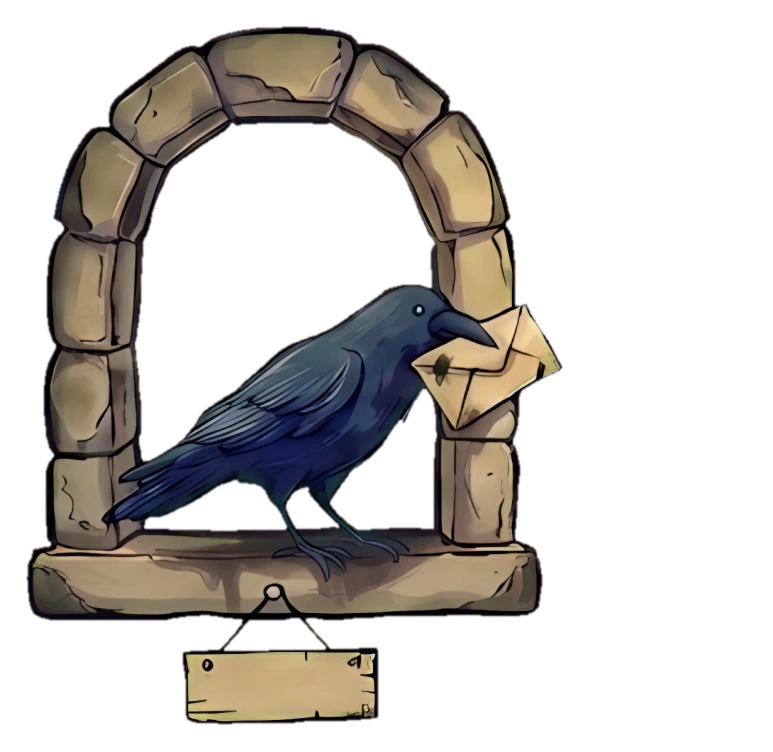
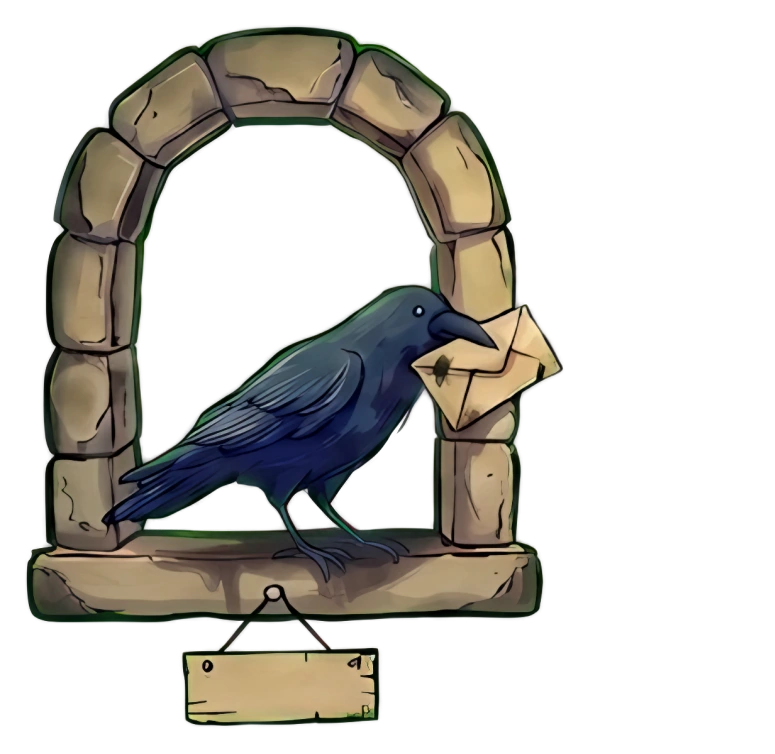
v28: matted object cut-outs, hover outline from hover pose, About moved up, sign text centring, hard swap
Claude-Session: https://claude.ai/code/session_01DVG5f7VBQkdwappbx1RNPL

diff --git a/concepts/scenes/workshop.js b/concepts/scenes/workshop.js
@@ -19,10 +19,11 @@ PF.init({
   },
   draw:function(svg,P){
     var el=P.el,K=900/572,OX=(1600-1024*K)/2,T='translate('+OX+',0) scale('+K+')';
-    var CUT={raven:{x:48.50,y:17.89,w:307.28,h:298.93},construct:{x:743.35,y:45.32,w:280.65,h:276.67},books:{x:43.73,y:237.32,w:243.28,h:334.31},about:{x:331.53,y:302.91,w:380.82,h:268.72},disc:{x:675.78,y:276.67,w:285.81,h:294.96}};
-    var HOV={raven:{x:48.50,y:17.89,w:307.28,h:298.93},books:{x:43.73,y:237.32,w:243.28,h:334.31},construct:{x:743.35,y:45.32,w:280.65,h:276.67},about:{x:331.53,y:302.91,w:380.82,h:268.72},disc:{x:675.78,y:276.67,w:285.81,h:294.96}};
-    var RING={"raven":"M143.90 308.88 129.99 309.14 125.61 308.54 122.83 307.51 120.84 306.15 119.55 304.50 119.04 302.91 118.86 290.35 117.73 281.44 117.77 277.47 118.25 275.88 119.65 274.41 121.64 273.64 133.99 272.30 135.55 271.18 137.14 269.12 137.36 267.93 136.75 267.09 133.17 266.15 129.19 265.91 111.70 267.86 68.77 267.81 64.80 267.09 61.61 265.77 58.68 263.16 57.37 261.17 56.25 256.00 55.74 248.45 56.27 240.89 58.45 234.93 60.02 233.45 62.81 231.98 63.58 230.16 63.27 205.12 64.66 198.76 63.36 192.00 62.52 183.25 62.47 171.33 63.43 163.78 66.18 155.83 64.52 149.86 63.68 143.90 63.65 128.00 64.15 122.04 65.40 116.07 68.11 109.71 66.47 104.15 67.39 97.79 69.37 89.84 72.50 81.09 76.07 74.34 79.76 69.17 82.68 66.44 87.67 64.00 89.58 57.64 93.42 53.17 114.09 37.16 117.66 34.72 120.45 33.54 127.20 32.26 134.36 28.90 144.70 26.38 151.06 25.52 162.19 25.09 175.70 25.59 184.84 27.18 189.22 28.88 192.80 31.42 200.35 32.52 206.31 35.11 213.86 40.51 226.98 51.20 229.71 54.46 231.46 58.04 235.33 60.42 238.60 63.60 243.56 71.55 246.53 77.52 248.64 82.68 252.63 95.40 254.24 102.16 254.23 107.73 255.45 112.10 256.41 125.61 257.19 127.33 259.58 127.53 268.72 124.69 270.71 125.12 273.09 126.61 274.68 126.76 284.25 124.02 293.50 120.45 309.27 111.03 315.23 108.20 317.22 108.47 318.59 109.71 319.03 111.70 318.01 115.68 318.81 116.62 320.00 116.59 324.47 114.48 335.11 108.22 338.29 107.27 339.88 107.66 341.25 108.92 341.71 110.51 341.33 112.89 338.66 117.66 333.43 123.63 332.96 125.22 333.52 125.82 334.71 125.92 342.66 123.27 345.04 123.04 347.73 124.42 348.44 126.81 346.72 130.39 339.59 137.54 327.16 145.46 327.21 146.29 328.35 146.96 335.90 148.18 337.27 149.47 337.58 151.45 336.45 153.44 333.91 155.61 323.58 160.52 323.31 161.39 324.13 164.57 322.78 166.99 319.20 169.06 314.83 170.78 308.87 171.07 306.56 174.51 304.89 175.94 301.71 177.51 296.15 179.25 294.78 182.46 292.97 184.24 290.58 185.10 283.03 186.38 279.85 190.59 272.70 192.21 271.30 195.58 269.91 196.95 266.34 198.13 262.76 198.15 261.89 198.76 258.43 205.12 256.81 228.17 257.59 230.21 261.96 232.62 263.97 234.53 266.19 240.50 267.05 246.06 267.02 253.61 265.96 259.98 264.04 262.76 260.77 264.90 256.80 265.86 205.52 266.31 180.47 268.14 179.64 268.72 179.53 269.91 180.47 271.17 182.06 272.05 197.57 272.02 199.95 272.83 201.29 274.29 201.89 277.07 201.89 301.71 201.68 303.70 200.76 305.29 197.96 306.71 188.42 307.60 143.90 308.88Z","books":"M189.61 567.66 160.60 568.00 152.25 567.23 131.18 567.17 127.60 566.24 125.06 563.68 124.17 558.91 123.67 551.75 123.84 529.89 124.82 527.91 126.41 526.74 128.80 526.07 136.75 525.40 137.86 524.72 137.57 523.53 110.92 513.59 92.62 508.14 65.19 497.92 53.66 493.33 51.68 491.84 50.48 490.14 49.37 485.76 49.93 480.99 52.47 478.41 57.64 476.18 58.62 474.24 57.49 466.68 56.05 461.85 55.25 460.50 51.71 457.14 50.15 453.96 49.76 451.18 50.34 448.00 51.55 446.01 54.76 442.83 61.44 438.46 61.04 428.92 62.55 422.56 65.87 414.21 69.57 410.61 76.32 408.12 77.43 407.06 76.36 398.31 77.49 391.55 78.74 389.17 81.09 386.70 90.10 381.22 90.73 370.88 93.57 362.14 97.49 354.98 96.99 353.82 96.20 353.59 91.43 354.85 87.45 354.27 81.89 351.22 77.12 349.99 75.18 348.22 73.73 345.04 72.50 338.68 71.24 326.76 71.47 320.40 73.54 317.85 77.52 317.07 80.70 318.15 85.47 321.24 89.84 322.24 92.22 323.83 93.61 325.57 94.67 328.35 96.19 343.85 96.60 344.99 97.39 345.44 98.49 344.25 99.20 337.09 100.69 332.32 105.05 321.59 107.73 318.63 110.51 317.78 129.99 316.38 147.88 314.34 159.80 312.41 162.58 311.45 166.56 307.78 169.74 306.27 176.89 304.48 181.66 305.11 183.46 304.89 193.99 298.16 213.86 283.65 217.04 282.07 221.42 281.74 228.57 284.64 234.53 284.45 238.11 285.39 240.89 286.81 244.25 289.39 247.25 292.97 249.36 297.74 250.43 302.22 251.63 303.37 254.81 301.15 257.59 300.33 260.37 300.75 263.55 302.23 264.75 302.11 265.52 300.52 265.74 294.96 266.90 292.17 269.91 289.78 273.49 289.54 276.32 291.38 278.18 295.35 280.17 311.25 279.79 319.20 278.66 320.87 276.67 322.13 271.11 322.66 267.93 327.26 265.94 328.49 263.95 328.90 261.57 328.51 259.18 327.22 256.96 324.77 254.92 320.80 254.01 320.36 253.20 320.80 250.32 331.53 251.09 332.72 254.40 334.71 255.39 336.70 255.36 341.07 253.10 348.22 253.61 349.63 256.74 353.39 257.10 355.38 256.79 357.37 255.26 360.15 252.82 362.21 244.47 364.62 240.17 369.29 236.26 371.68 235.16 374.86 235.57 376.05 236.92 376.77 247.25 378.25 254.41 380.20 257.19 381.88 259.52 384.80 259.92 387.18 259.69 391.16 258.62 393.54 255.99 397.12 255.73 399.11 260.80 403.08 262.43 406.66 266.66 410.63 267.47 413.81 266.77 418.19 265.14 420.12 261.49 422.56 260.82 424.15 260.83 426.53 261.62 428.12 267.46 432.89 274.41 437.27 277.28 441.24 279.60 446.01 280.98 455.16 280.09 465.89 278.78 473.44 276.39 477.81 271.11 481.68 257.59 487.58 232.60 496.50 220.22 501.89 185.88 514.78 185.39 515.98 186.43 517.68 193.59 523.17 195.98 524.47 217.04 524.78 221.02 525.74 222.73 527.11 224.47 529.49 225.56 531.88 226.10 534.66 226.01 538.63 224.80 543.01 226.10 547.78 226.12 561.69 225.73 563.68 224.60 565.26 221.81 566.55 213.47 567.57 197.17 567.22 189.61 567.66Z","construct":"M1023.60 273.45 1006.91 272.29 995.78 272.27 991.01 272.97 988.22 274.57 986.35 277.07 985.47 280.25 985.67 307.28 984.25 309.76 981.07 311.51 977.89 312.33 959.20 313.59 923.03 313.61 911.90 314.31 908.32 313.49 905.54 311.78 904.12 309.27 904.28 281.04 903.00 277.47 900.37 274.89 898.39 274.04 894.81 273.50 888.45 273.19 870.16 273.83 850.29 272.15 845.52 271.31 839.16 268.43 826.51 261.17 816.89 257.86 802.19 247.63 795.03 245.89 792.53 244.47 788.39 239.30 784.30 236.24 782.44 233.74 779.89 226.58 775.84 218.24 774.45 209.49 772.84 206.31 770.45 204.32 756.07 196.50 751.15 192.00 750.57 187.63 751.69 179.28 751.86 174.11 753.00 168.55 754.58 164.57 757.27 160.52 761.40 151.45 763.23 149.36 765.22 148.13 770.39 146.56 777.54 146.04 782.71 146.97 788.27 149.71 800.60 151.93 804.17 151.44 807.35 149.15 809.04 145.89 810.07 139.93 809.03 136.75 805.38 131.58 805.03 124.42 805.93 120.45 809.13 112.89 809.36 105.74 813.14 100.57 818.88 94.91 825.24 89.96 828.02 85.86 829.61 84.37 835.18 81.53 844.32 79.25 852.27 81.21 859.03 80.07 869.37 81.16 873.32 80.70 875.73 79.23 877.56 77.12 881.60 67.58 887.65 61.99 895.20 59.25 899.58 55.81 903.55 54.00 912.70 52.56 918.66 53.04 921.04 53.75 925.42 56.19 933.76 58.38 938.53 61.48 944.00 68.37 945.69 76.09 950.49 82.68 951.53 87.45 951.48 93.81 950.10 99.38 947.43 102.96 946.39 105.34 945.82 114.48 946.80 117.27 948.35 119.25 954.83 123.16 958.81 127.20 964.05 136.35 965.70 140.72 966.31 145.09 965.95 149.47 965.10 151.45 960.91 156.62 960.13 159.01 960.07 161.39 968.06 182.46 969.17 188.82 971.67 193.99 972.26 200.35 972.00 206.31 973.52 210.26 975.50 212.22 977.89 213.31 989.81 214.67 998.16 214.65 1018.83 212.38 1023.60 212.31Z","about":"M561.69 567.76 476.62 567.94 475.03 567.25 474.35 565.66 474.11 546.19 473.04 544.63 470.86 543.80 462.14 542.61 449.99 542.78 437.66 541.79 422.96 542.47 417.79 541.40 414.21 543.46 412.22 543.95 410.24 543.63 407.06 542.08 402.29 541.78 384.80 543.32 366.51 543.69 359.75 542.42 352.60 539.94 346.24 536.06 342.65 532.67 339.85 528.30 338.51 523.93 338.37 518.76 339.26 514.78 340.96 510.41 345.65 501.27 354.17 489.34 362.71 476.22 363.11 474.24 362.26 470.66 362.20 467.08 363.46 462.71 365.25 459.93 367.30 457.85 376.54 451.58 379.79 443.23 382.81 439.51 387.98 435.97 391.16 434.87 395.13 434.30 396.79 432.89 399.05 420.17 403.24 376.05 405.23 371.28 408.65 367.41 414.21 364.71 420.17 364.27 425.34 365.09 436.47 368.12 448.80 369.97 451.58 370.81 453.27 372.07 454.29 373.66 454.56 375.25 454.19 376.84 452.90 378.83 448.80 382.20 440.00 386.39 439.12 387.18 438.89 388.37 439.65 390.19 441.24 391.58 457.54 398.61 460.64 401.09 461.42 403.88 460.64 406.66 457.94 409.05 453.10 411.03 452.55 412.62 462.31 429.08 463.60 430.51 465.49 431.20 482.98 429.37 490.53 430.01 497.69 432.65 499.34 432.10 500.46 428.12 500.03 426.14 488.98 416.20 479.63 409.04 477.87 406.66 477.55 403.48 478.49 400.70 480.86 396.72 485.76 390.62 489.34 388.36 494.91 387.63 495.93 386.78 495.70 385.37 492.74 381.22 491.68 378.83 491.63 376.45 492.92 373.98 496.10 371.22 508.42 365.80 510.81 365.45 513.19 365.83 514.78 366.60 516.19 368.10 518.15 373.27 521.14 383.91 522.73 387.67 523.93 388.78 526.31 388.62 527.41 387.18 526.71 385.51 522.95 381.22 522.43 379.23 522.62 377.24 526.31 370.11 527.90 369.12 529.89 369.03 531.75 370.09 537.13 377.24 537.15 380.02 534.36 386.78 534.98 388.37 550.56 392.14 560.89 395.19 565.27 395.91 567.65 395.72 568.85 394.73 568.85 393.14 567.65 390.46 564.71 386.78 564.40 383.60 568.06 378.43 571.63 371.83 573.22 370.69 574.81 370.47 576.40 370.85 577.88 372.07 579.58 375.98 584.52 384.00 583.88 387.18 578.40 393.54 578.23 394.34 578.81 395.13 587.93 395.81 589.52 395.46 590.94 393.94 594.04 387.58 595.48 386.60 597.07 386.36 601.84 387.93 606.61 387.34 610.98 388.36 614.96 391.06 618.99 395.13 620.34 398.31 620.11 404.27 623.47 408.65 624.64 411.43 624.72 413.81 623.60 418.58 627.18 428.52 626.41 432.10 622.14 436.47 623.12 440.84 625.29 442.01 632.84 442.06 641.19 440.61 646.36 440.23 650.73 441.27 653.24 443.23 657.96 452.37 659.61 457.94 673.42 478.21 678.42 488.55 689.49 504.05 695.25 513.16 703.08 523.53 704.95 527.90 704.78 531.48 702.93 534.26 700.02 535.93 676.17 540.91 651.13 541.82 623.70 544.95 616.94 543.59 612.97 540.68 611.78 540.35 606.21 543.12 602.63 544.04 579.58 545.00 564.07 547.14 562.90 547.78 562.39 548.97 563.18 565.27 562.79 566.86 561.69 567.76Z","disc":"M872.94 567.70 796.62 568.01 792.65 567.28 791.08 565.66 790.34 561.69 789.90 548.17 789.92 537.04 790.31 535.06 791.45 533.82 793.04 533.33 808.15 534.15 811.13 533.07 811.52 532.27 811.23 531.48 809.74 530.77 805.37 530.41 796.22 528.51 781.12 523.49 779.13 523.82 775.16 526.55 771.98 527.34 769.19 527.42 763.63 526.59 760.45 523.69 759.25 523.18 752.50 524.55 748.12 524.60 735.80 521.01 732.70 518.36 731.97 515.18 733.18 511.60 737.39 505.42 737.86 503.65 735.19 498.09 734.34 486.16 730.63 480.12 729.04 479.10 725.03 477.81 719.11 476.99 712.75 477.46 701.61 479.29 697.24 479.05 692.87 477.65 686.51 474.46 684.48 472.65 683.54 470.66 683.50 467.48 684.46 464.70 686.91 461.46 690.09 458.93 700.02 453.38 707.58 451.11 713.54 449.93 715.05 448.80 715.02 447.20 712.13 436.87 709.68 421.76 709.63 402.68 710.51 395.13 716.53 364.52 718.60 359.35 724.55 347.43 729.85 338.68 738.49 327.95 746.14 319.81 753.29 313.22 764.42 305.09 773.17 300.39 781.12 296.86 800.99 289.53 815.30 285.28 819.28 284.68 829.22 285.05 841.54 284.30 846.71 284.92 857.04 287.70 868.97 291.61 886.46 299.20 895.20 304.31 907.13 312.69 913.89 317.88 921.84 325.41 928.74 333.91 933.18 340.67 940.65 355.38 945.05 365.32 947.55 372.47 951.11 386.78 953.13 399.90 953.59 410.63 953.09 420.57 951.88 430.51 950.19 439.25 947.84 449.19 945.53 456.35 931.77 482.98 933.20 487.75 933.29 492.92 937.07 502.06 937.20 504.45 936.64 506.43 932.72 512.40 930.58 514.47 927.01 515.13 921.44 514.54 920.17 515.18 919.96 516.77 922.30 523.13 922.40 527.90 921.18 530.29 918.26 533.84 915.48 535.50 912.70 535.64 892.02 532.20 882.99 526.71 880.89 523.06 879.70 522.47 855.81 530.29 855.31 531.48 856.65 532.71 870.56 533.51 873.34 534.65 875.04 536.65 876.44 544.20 876.45 563.68 875.65 566.06 872.94 567.70Z"};
-    var SIGN={raven:[123,276,75,29],books:[129,531,90,30],construct:[909,284,71,26],about:[479,536,79,30],disc:[794,536,78,27]};
+    var CUT={raven:{x:48.50,y:17.49,w:308.07,h:299.73},construct:{x:743.35,y:45.32,w:280.65,h:277.07},books:{x:43.33,y:236.52,w:243.68,h:335.11},about:{x:331.53,y:297.74,w:380.82,h:271.90},disc:{x:675.38,y:276.27,w:286.61,h:295.35}};
+    var HOV={raven:{x:48.50,y:17.49,w:308.07,h:299.73},books:{x:43.33,y:236.52,w:243.68,h:335.11},construct:{x:743.35,y:45.32,w:280.65,h:277.07},about:{x:331.53,y:297.74,w:380.82,h:271.90},disc:{x:675.38,y:276.27,w:286.61,h:295.35}};
+    var RING={"raven":"M149.07 308.48 126.81 308.70 121.64 306.72 120.02 305.29 119.17 303.70 118.86 289.56 117.73 279.45 118.18 276.27 119.32 274.68 121.24 273.75 131.98 273.07 133.96 272.52 137.21 269.12 137.28 267.53 136.37 266.73 129.19 265.91 110.91 267.86 69.57 267.84 65.19 267.20 62.01 266.00 59.19 263.95 57.55 261.57 56.13 255.20 56.27 240.89 58.59 234.93 59.75 233.74 62.81 232.08 63.62 229.76 63.27 205.91 64.66 198.76 62.89 186.83 62.87 167.75 63.64 162.98 66.18 155.83 63.71 144.30 63.71 126.81 65.11 117.27 68.44 109.32 66.95 105.34 67.06 99.78 68.55 93.02 71.73 83.08 74.06 77.91 79.42 69.57 82.29 66.82 87.85 63.76 89.61 57.64 92.62 53.89 114.09 37.21 119.25 33.97 126.81 32.36 134.76 28.77 144.70 26.44 152.25 25.52 170.14 25.15 178.48 26.04 185.64 27.51 188.82 28.72 192.80 31.42 199.95 32.41 205.12 34.48 213.47 40.29 225.10 49.69 229.33 54.06 231.12 58.04 235.33 60.49 238.60 63.60 242.37 69.57 246.53 77.52 252.52 95.40 254.25 102.56 254.22 107.73 255.80 114.48 256.41 126.01 257.19 127.65 259.58 127.70 269.12 124.53 270.71 124.79 273.09 126.50 274.71 126.81 285.84 123.63 295.09 119.65 307.68 112.00 315.23 108.29 317.22 108.51 318.59 109.71 319.03 111.70 318.00 115.68 318.81 116.70 320.00 116.68 335.50 108.05 338.29 107.27 339.88 107.66 341.25 108.92 341.70 110.51 341.40 112.50 339.66 116.07 333.04 124.02 332.60 125.61 333.12 126.13 334.31 126.19 342.66 123.28 345.44 122.90 347.83 124.02 348.74 126.41 348.06 128.40 346.66 130.39 340.27 136.84 335.11 140.62 325.61 145.89 325.64 146.68 326.76 147.35 335.90 148.00 337.49 149.22 337.93 151.06 336.84 153.04 333.91 155.47 323.18 160.52 323.01 161.79 324.06 164.57 322.78 166.99 319.20 169.06 314.83 170.74 308.87 170.94 307.97 171.73 306.56 174.51 304.89 175.94 296.15 179.45 294.76 182.46 293.37 183.87 289.39 185.34 283.03 186.16 282.17 186.83 281.01 189.22 279.45 190.60 277.47 191.35 272.70 191.94 271.32 195.18 270.31 196.39 266.73 198.02 262.36 198.31 259.15 203.13 258.48 204.72 258.00 208.70 256.86 228.97 257.79 230.56 261.96 232.71 264.12 234.93 266.19 240.50 267.41 248.84 266.02 259.58 263.55 262.90 260.37 264.94 256.40 265.86 202.73 266.31 179.51 267.93 178.69 268.72 178.92 269.91 181.66 272.05 197.17 272.02 199.55 272.82 201.02 274.29 201.76 276.27 201.90 279.06 201.88 302.11 201.10 304.89 199.95 305.96 197.96 306.70 187.63 307.60 180.47 308.03 172.92 307.82 166.16 308.42 149.07 308.48Z","books":"M188.02 567.69 161.39 568.01 147.48 566.85 131.58 567.19 128.40 566.62 126.01 565.28 124.59 563.28 124.12 561.29 123.55 529.89 124.75 527.90 126.81 526.57 136.75 525.58 137.94 525.08 138.29 523.93 137.14 523.07 113.30 514.39 91.03 507.46 57.64 494.99 52.47 492.47 51.06 490.93 49.88 488.15 49.35 484.97 49.61 481.79 50.46 480.20 52.07 478.77 58.04 476.02 58.66 474.24 57.51 466.29 56.12 461.91 51.20 456.35 49.99 453.17 49.82 450.39 50.82 447.20 52.68 444.82 55.25 442.53 61.49 438.46 61.49 426.93 63.88 418.58 66.21 413.81 69.96 410.39 76.14 408.25 77.43 407.06 76.80 402.29 76.78 395.13 78.30 389.96 81.89 386.15 89.04 382.22 90.24 380.94 90.32 373.66 90.93 370.48 93.93 361.34 97.51 355.78 98.35 353.39 99.57 335.90 104.42 323.18 106.53 319.53 108.12 318.44 110.51 317.78 130.39 316.38 151.06 314.00 160.49 312.45 162.62 311.65 166.56 307.90 170.14 306.18 176.10 304.61 182.06 305.29 183.65 305.03 193.59 298.56 214.66 283.25 217.84 281.93 220.62 281.69 228.57 284.67 234.14 284.46 239.70 286.40 242.88 288.51 246.19 291.78 249.09 297.34 250.33 304.10 249.37 309.66 251.78 313.24 252.37 316.02 252.20 323.58 250.14 329.54 247.65 332.90 244.47 335.40 226.19 340.65 225.00 341.47 224.92 342.26 232.15 348.17 234.70 352.20 235.26 358.96 233.96 364.12 235.59 368.50 235.15 374.86 235.55 376.05 237.71 377.06 246.06 378.30 254.01 380.21 257.26 382.01 259.41 384.80 259.91 387.18 259.67 391.16 256.00 396.86 255.61 399.11 260.13 402.68 262.74 407.06 266.00 409.84 267.11 411.83 267.46 413.81 267.32 416.60 266.38 418.58 260.77 423.13 260.78 426.53 261.57 428.07 264.35 429.98 267.53 433.18 273.67 436.87 278.56 443.63 279.92 447.20 280.57 451.58 280.10 465.09 278.77 472.65 277.73 475.83 275.58 478.61 271.90 481.12 256.40 487.91 234.20 495.70 213.86 504.22 188.09 513.59 185.64 514.90 185.24 516.04 186.08 517.57 193.68 523.53 195.98 524.78 207.50 525.16 216.25 524.78 221.02 525.91 222.69 527.11 224.32 529.49 225.68 532.67 226.12 535.45 225.94 538.63 224.50 543.01 226.09 547.78 226.12 560.89 225.55 563.28 224.20 564.98 221.02 566.55 215.45 567.14 201.54 566.86 188.02 567.69Z","construct":"M1023.60 273.45 1010.88 272.29 994.19 271.86 987.83 272.00 984.25 273.43 983.10 275.08 982.76 276.67 985.35 283.03 985.76 306.48 984.65 309.35 981.47 311.36 977.09 312.34 958.41 313.59 912.70 314.00 908.32 313.47 905.10 311.25 904.02 308.07 904.07 285.81 904.68 283.43 906.73 280.54 907.40 278.66 907.13 276.78 905.94 275.08 903.95 274.02 900.99 273.49 892.42 273.06 865.39 273.43 845.91 271.32 841.54 269.61 826.90 261.17 816.10 257.29 801.96 247.25 795.83 246.12 793.44 245.10 791.39 243.28 788.27 238.79 784.30 236.13 782.81 234.14 779.93 226.51 775.99 218.63 774.96 213.47 774.67 208.70 773.60 206.31 771.59 204.72 756.87 196.96 753.69 194.53 751.38 192.00 750.58 188.42 751.90 174.51 753.87 166.16 757.30 160.60 761.74 151.06 763.63 149.11 766.01 147.82 772.77 146.40 780.72 146.53 783.90 147.65 787.88 150.10 793.84 150.61 799.40 152.36 802.98 154.21 807.54 157.42 809.23 164.97 810.93 167.24 814.28 168.55 820.47 169.88 822.86 169.80 824.81 168.94 825.99 167.35 826.37 165.37 824.37 160.60 822.86 159.31 817.69 157.61 812.89 153.84 809.57 145.49 809.73 143.90 811.15 140.72 811.04 138.34 810.14 136.74 806.50 133.57 805.17 130.78 805.27 122.83 807.17 117.66 809.85 113.69 810.09 111.70 809.50 106.14 811.70 102.16 819.68 94.18 825.64 90.62 828.37 85.47 832.40 82.79 839.55 80.22 844.72 79.27 846.71 79.62 850.13 81.89 851.88 82.32 859.43 80.35 865.79 80.84 872.55 82.13 875.33 81.73 876.52 81.06 877.67 79.50 878.41 75.53 881.01 68.37 887.25 62.28 889.64 61.00 895.20 59.33 899.98 55.74 903.55 54.12 912.70 52.67 917.86 53.03 921.04 53.95 924.62 56.29 934.16 58.63 938.53 61.48 944.32 69.17 945.04 71.55 945.01 75.13 945.53 76.72 949.36 80.70 950.44 82.68 951.54 87.85 951.47 93.81 949.89 99.78 946.37 104.15 945.91 110.11 944.38 114.48 944.29 116.47 946.09 119.14 953.64 122.53 956.96 125.22 960.10 129.59 965.37 140.32 965.91 143.90 965.59 150.26 964.44 152.25 959.69 156.62 958.89 159.80 963.80 171.33 968.17 183.25 969.14 189.53 971.62 194.39 971.86 203.93 971.18 208.70 971.93 211.34 973.12 212.52 975.11 213.23 987.83 214.68 1000.55 214.65 1023.60 212.32Z","about":"M559.70 562.56 478.21 562.65 475.99 561.69 474.85 559.70 474.15 535.85 473.04 533.43 470.66 531.90 463.33 530.68 446.81 530.62 437.66 529.85 423.35 530.49 418.19 529.85 412.22 531.97 407.06 530.21 403.48 529.85 396.72 529.90 388.77 530.97 376.05 531.79 366.11 531.76 357.37 529.70 351.40 527.35 346.24 524.01 341.56 519.16 339.42 515.18 338.49 511.60 338.40 506.83 339.30 502.86 345.23 490.14 354.19 477.50 362.35 464.70 362.90 462.31 362.23 458.34 362.26 454.36 363.65 450.39 367.30 445.99 376.45 439.65 379.51 432.10 382.32 428.12 388.37 423.96 394.94 421.76 397.11 418.98 399.46 404.67 403.29 364.12 405.23 359.35 409.44 355.01 414.61 352.76 420.17 352.35 438.33 356.57 449.59 358.25 451.98 359.16 453.57 360.52 454.56 363.33 453.46 366.11 450.39 369.09 442.43 373.66 441.14 375.65 441.03 377.64 442.04 379.63 443.57 380.82 457.14 386.51 460.52 389.17 461.35 391.55 460.88 393.94 459.13 396.05 455.12 399.11 454.14 401.09 454.14 403.08 461.86 416.60 463.90 418.46 465.89 419.09 482.19 417.44 495.30 419.02 497.03 418.58 498.48 417.25 499.15 414.61 498.10 412.22 489.07 404.27 479.40 396.89 477.73 394.34 477.61 391.55 479.93 386.39 484.08 380.42 487.75 377.27 491.70 375.25 492.67 374.06 493.21 371.28 491.55 365.71 492.04 363.73 493.26 361.74 496.50 359.24 508.82 353.87 511.20 353.55 513.19 353.93 516.18 356.17 521.58 373.27 523.06 375.65 525.21 376.84 528.30 377.25 533.86 376.91 537.84 377.44 564.07 383.95 586.73 383.82 588.72 383.44 590.31 382.47 594.04 375.65 595.48 374.67 597.07 374.44 601.84 375.77 606.61 375.41 610.19 376.24 614.96 379.21 618.90 383.20 620.32 386.39 620.41 392.35 624.61 399.50 624.72 401.89 623.80 406.66 627.14 416.60 626.64 419.78 623.20 424.55 623.03 426.14 623.70 427.98 625.69 429.55 629.27 430.14 634.04 430.06 642.39 428.63 647.95 428.68 650.73 429.54 653.25 431.70 658.17 441.24 659.71 446.41 673.64 466.68 678.56 476.97 689.89 492.92 694.86 500.90 703.48 512.40 704.95 515.98 704.78 519.55 702.81 522.38 699.23 524.13 672.20 529.34 649.14 529.90 628.87 532.52 624.50 532.63 619.33 532.37 613.37 529.65 610.98 529.34 605.42 531.36 601.44 532.12 583.55 532.68 565.66 535.08 563.68 536.26 562.51 539.03 562.67 559.70 561.69 561.54 559.70 562.56Z","disc":"M872.55 567.70 797.02 568.01 793.04 567.36 791.04 565.27 790.34 561.69 789.91 540.62 790.70 535.06 791.85 533.83 793.44 533.38 805.37 534.27 808.94 534.08 811.73 532.74 811.91 531.88 811.33 531.09 797.81 528.89 780.72 523.26 779.13 523.53 774.36 526.77 768.80 527.42 763.63 526.49 759.34 523.13 752.10 524.56 748.52 524.61 735.80 520.94 734.16 519.95 732.80 518.36 732.35 514.39 733.06 512.00 737.39 505.42 737.87 503.65 735.20 498.09 734.54 486.16 730.63 480.07 725.47 477.87 719.90 476.99 715.13 477.11 701.22 479.29 698.04 479.11 692.87 477.57 686.51 474.37 684.54 472.65 683.56 470.26 683.57 467.48 684.78 464.30 687.52 461.12 690.88 458.42 699.23 453.80 706.39 451.49 713.54 449.97 715.10 448.80 715.09 447.20 712.15 436.87 709.68 420.57 709.63 405.07 710.50 395.93 714.61 376.45 715.42 369.29 716.89 363.73 720.17 356.17 726.56 343.85 729.64 339.08 738.88 327.55 746.34 319.60 754.88 312.02 763.23 305.89 769.19 302.38 779.53 297.51 802.19 289.13 814.91 285.31 821.27 284.81 831.20 285.03 841.14 284.29 847.50 285.16 854.26 286.91 869.76 291.94 886.46 299.20 892.02 302.24 908.72 313.88 916.78 320.40 921.59 325.17 929.31 334.71 934.04 342.26 940.24 354.58 945.92 367.70 951.39 388.37 953.13 400.30 953.59 412.62 952.30 426.53 950.27 438.46 947.10 451.58 945.35 456.75 931.72 482.58 933.19 487.75 933.25 492.92 937.14 502.46 936.79 506.04 932.82 512.00 930.19 514.49 927.01 515.12 921.44 514.57 920.14 515.18 919.90 516.77 922.36 523.53 922.43 527.50 921.60 529.49 919.15 532.67 917.09 534.66 915.48 535.47 913.09 535.63 892.02 532.10 883.28 526.76 880.89 523.06 879.70 522.47 855.43 530.29 854.94 531.08 855.22 531.88 857.44 532.93 868.17 533.15 871.75 533.82 873.74 535.00 875.12 537.04 875.96 540.22 876.44 547.78 876.41 562.88 875.27 566.06 872.55 567.70Z"};
+    var RINGH={"raven":"M149.07 308.48 126.81 308.70 121.64 306.72 120.05 305.29 119.23 303.70 118.86 288.20 117.77 279.85 118.40 276.67 119.67 275.08 122.04 273.98 131.98 273.47 134.36 272.73 137.93 269.12 138.16 267.93 137.14 266.88 129.19 265.91 110.91 267.86 69.57 267.84 65.19 267.20 62.01 266.00 59.19 263.95 57.55 261.57 56.13 255.20 56.27 240.89 58.26 236.12 60.02 234.19 62.81 232.49 63.62 230.16 63.27 210.68 63.78 203.13 64.91 199.16 63.29 190.01 62.87 168.55 63.79 162.98 66.23 155.83 64.59 149.86 63.71 144.30 63.71 126.81 64.98 118.46 68.42 109.71 68.38 108.52 66.95 105.34 66.94 102.16 69.43 90.24 71.78 83.08 74.63 77.12 77.37 72.75 81.89 67.48 87.68 64.00 89.75 58.04 93.42 53.52 116.07 35.76 120.05 33.67 127.20 32.24 131.98 29.99 137.94 28.01 147.48 26.04 161.39 25.09 173.71 25.55 184.05 27.33 188.82 29.01 192.40 31.42 199.55 32.43 205.12 34.71 216.65 42.99 226.98 51.58 229.53 54.46 231.12 58.04 235.33 60.49 238.60 63.60 241.39 67.98 247.32 79.90 252.72 96.20 254.25 102.56 254.22 107.73 255.80 114.48 256.41 126.01 257.19 127.65 259.58 127.70 269.12 124.53 270.71 124.79 273.09 126.50 274.71 126.81 285.84 123.63 295.09 119.65 307.68 112.00 315.23 108.29 317.22 108.51 318.59 109.71 319.03 111.70 318.00 115.68 318.81 116.70 320.00 116.68 335.50 108.05 338.29 107.27 339.88 107.66 341.25 108.92 341.70 110.51 341.40 112.50 339.66 116.07 333.04 124.02 332.60 125.61 333.12 126.13 334.31 126.19 342.66 123.28 345.44 122.90 347.83 124.02 348.74 126.41 348.06 128.40 346.66 130.39 340.27 136.84 335.11 140.62 325.61 145.89 325.64 146.68 326.76 147.35 335.90 148.00 337.49 149.22 337.93 151.06 336.84 153.04 333.91 155.47 323.18 160.52 323.01 161.79 324.06 164.57 322.78 166.99 319.20 169.06 314.83 170.74 308.87 170.94 307.97 171.73 306.56 174.51 304.89 175.94 296.15 179.45 294.76 182.46 293.37 183.87 289.39 185.34 283.03 186.16 282.17 186.83 281.01 189.22 279.45 190.60 277.47 191.35 272.70 191.94 271.32 195.18 270.31 196.39 266.73 198.02 262.36 198.31 259.15 203.13 258.41 205.12 257.60 211.88 256.85 229.37 257.67 230.96 261.96 233.02 264.18 235.73 266.05 240.89 267.41 248.84 266.02 259.58 263.55 262.90 260.37 264.94 256.40 265.86 202.73 266.31 179.01 267.93 178.29 268.72 178.52 269.91 180.07 271.60 181.66 272.45 197.17 272.42 199.55 273.21 201.14 274.82 201.89 277.86 201.90 300.52 201.77 303.30 201.10 304.89 199.95 305.96 197.96 306.70 187.63 307.60 180.47 308.03 172.92 307.82 166.16 308.42 149.07 308.48Z","books":"M188.02 567.69 161.39 568.01 147.48 566.85 131.58 567.19 128.40 566.62 126.01 565.27 124.56 562.48 123.71 550.16 123.67 532.67 124.09 529.89 125.23 528.30 127.20 527.22 139.53 526.26 140.72 525.85 141.07 524.72 139.93 523.86 132.77 521.66 113.30 514.39 91.03 507.46 57.64 494.99 52.47 492.47 50.83 490.53 49.94 488.15 50.00 482.19 52.07 479.57 58.04 476.82 58.76 474.63 57.86 467.48 56.45 462.83 55.46 460.72 52.38 457.94 50.80 455.55 50.18 453.17 50.23 449.59 51.23 447.20 54.06 444.25 60.74 440.05 61.61 439.04 61.27 430.51 61.82 426.14 63.43 420.97 66.21 415.01 69.96 411.19 76.32 408.79 77.41 407.85 77.63 406.66 76.78 401.89 76.84 395.93 77.64 392.75 79.44 389.57 82.29 386.70 85.47 384.69 98.58 379.01 107.73 376.67 108.75 375.65 108.52 374.31 100.51 359.75 99.27 355.78 98.65 351.40 99.46 336.30 104.25 323.58 106.53 319.53 108.12 318.44 110.51 317.78 130.39 316.38 151.06 314.00 160.49 312.45 162.62 311.65 166.56 307.90 170.14 306.18 176.10 304.61 182.06 305.29 183.65 305.03 193.59 298.56 214.66 283.25 217.84 281.93 220.62 281.69 228.57 284.67 233.74 284.41 238.11 285.61 242.88 288.51 246.82 292.57 248.67 296.15 249.89 300.52 250.32 304.50 249.37 309.66 251.78 313.24 252.28 314.83 252.34 322.39 251.53 326.36 248.53 331.93 246.06 334.38 243.68 335.77 226.58 340.50 204.52 345.44 201.94 346.49 201.54 347.68 203.13 348.43 209.49 347.49 214.66 348.02 218.63 349.85 222.21 353.39 225.22 359.35 226.50 365.32 226.27 370.48 225.42 372.07 223.01 374.45 223.45 375.65 228.17 376.76 251.63 380.19 256.00 381.78 258.74 384.40 259.78 386.78 259.77 390.76 258.94 392.75 255.87 397.12 255.51 399.90 256.40 401.04 260.05 403.48 262.22 407.45 266.00 410.63 267.11 412.62 267.46 414.61 267.22 416.99 266.38 418.58 260.77 423.10 260.38 424.94 260.72 427.33 261.57 428.76 264.39 430.51 267.53 433.98 273.64 437.66 277.99 443.23 279.79 447.20 280.54 451.18 280.10 465.09 278.77 472.65 277.73 475.83 275.58 478.61 271.90 481.12 256.40 487.91 234.20 495.70 213.86 504.22 188.09 513.59 184.90 515.18 184.43 516.37 185.29 517.96 193.56 524.32 195.98 525.58 199.95 525.95 216.25 525.61 221.02 526.73 223.88 529.49 225.20 532.27 225.70 534.66 225.59 539.43 224.16 543.80 225.67 549.37 226.12 560.89 225.55 563.28 224.20 564.98 221.02 566.55 215.45 567.14 201.54 566.86 188.02 567.69Z","construct":"M1023.60 273.45 1010.88 272.29 994.19 271.86 987.83 272.00 984.25 273.43 983.10 275.08 982.76 276.67 985.35 283.03 985.11 289.79 985.78 298.14 985.74 306.48 984.64 309.27 981.07 311.37 977.09 312.33 958.41 313.59 912.70 314.00 908.32 313.47 905.10 311.25 904.02 308.07 904.07 285.81 904.68 283.43 906.89 280.25 907.46 278.26 907.09 276.27 905.94 274.71 904.25 273.89 901.57 273.48 892.02 273.05 865.79 273.43 847.11 271.60 841.94 269.82 826.83 261.12 818.88 258.61 814.51 256.33 803.38 248.19 801.19 245.66 799.19 242.09 797.97 237.32 797.46 228.97 798.03 224.20 800.07 219.03 799.31 216.25 797.35 214.66 789.07 212.37 782.31 208.38 777.14 206.93 769.19 203.64 758.86 198.18 753.69 194.53 751.38 192.00 750.61 189.61 751.90 174.51 753.87 166.16 757.30 160.60 761.74 151.06 763.63 149.11 766.01 147.82 772.77 146.40 780.72 146.53 783.90 147.65 787.88 150.10 793.84 150.61 799.40 152.36 803.78 154.73 806.70 157.42 808.36 160.60 809.38 165.37 810.93 167.24 814.28 168.55 820.47 169.88 822.86 169.80 824.81 168.94 825.99 167.35 826.37 165.37 824.05 159.89 822.46 158.34 817.69 156.63 815.30 154.83 813.42 152.65 810.72 147.08 810.32 143.90 813.03 139.13 812.88 135.95 811.33 134.05 806.95 131.58 805.51 128.80 805.57 123.63 807.18 117.66 808.94 115.79 812.92 113.69 814.22 111.70 814.33 109.71 812.60 104.15 812.90 102.16 814.10 100.17 818.75 95.01 822.06 92.42 824.05 91.70 828.42 91.50 830.37 90.63 831.56 89.04 832.39 85.47 833.59 83.74 836.37 81.79 841.14 80.08 844.32 79.30 846.71 79.62 848.30 80.63 851.84 84.27 854.26 85.11 856.80 84.67 860.22 82.00 862.21 81.27 865.39 81.30 874.14 82.85 878.87 81.49 881.29 79.90 882.36 77.52 882.09 75.55 880.42 71.55 880.62 69.17 882.09 67.01 886.86 62.57 892.02 60.28 897.59 60.93 899.98 60.50 905.14 55.19 908.72 53.42 912.70 52.67 917.86 53.03 920.65 53.76 922.63 55.18 924.26 59.63 925.81 61.46 928.60 62.05 933.76 60.99 936.55 61.73 941.50 65.19 944.65 69.96 945.06 72.75 943.47 77.12 943.47 80.30 944.89 83.12 948.59 85.86 950.22 87.85 950.79 90.24 950.75 96.20 950.23 98.98 949.27 100.61 947.28 101.96 943.52 103.35 942.21 104.55 941.41 106.53 941.41 108.52 943.80 117.66 945.69 119.26 953.64 122.53 956.59 124.82 959.87 129.19 965.37 140.32 965.91 143.90 965.59 150.26 964.44 152.25 959.69 156.62 958.85 159.80 964.09 172.12 968.29 183.65 969.03 189.22 971.40 193.99 971.88 203.13 971.19 209.09 971.93 211.34 973.12 212.52 975.11 213.23 987.83 214.68 1000.55 214.65 1023.60 212.36Z","about":"M559.70 562.56 478.21 562.65 475.99 561.69 474.85 559.70 474.21 535.85 473.04 533.08 471.06 531.90 459.93 530.28 447.60 530.64 439.65 529.88 431.70 529.85 423.35 530.45 418.58 529.78 416.60 530.06 412.22 531.89 407.06 530.21 403.08 529.85 396.72 529.90 376.05 531.79 366.11 531.76 359.75 530.38 351.40 527.30 346.24 524.01 341.56 519.16 339.42 515.18 338.49 511.60 338.40 506.83 339.30 502.86 345.23 490.14 354.19 477.50 362.35 464.70 362.90 462.31 362.23 458.34 362.26 454.36 363.65 450.39 367.30 445.99 376.45 439.65 379.51 432.10 382.32 428.12 388.37 424.03 394.94 421.76 397.11 418.98 399.46 404.67 403.29 364.12 405.23 359.35 409.44 355.01 414.61 352.76 420.17 352.35 438.33 356.57 449.59 358.25 451.98 359.16 453.57 360.52 454.56 363.33 453.17 366.51 449.19 369.88 441.24 374.06 439.94 376.05 439.79 378.83 443.63 386.81 461.52 416.12 463.50 418.21 465.89 419.09 482.19 417.44 495.30 419.02 497.03 418.58 498.48 417.25 499.15 414.61 498.09 412.18 488.94 404.17 479.63 397.12 477.87 394.73 477.61 391.55 479.93 386.39 484.08 380.42 487.35 377.56 491.51 375.65 493.07 374.06 493.53 371.28 491.57 365.71 492.04 363.73 493.27 361.74 496.50 359.28 508.82 353.88 511.20 353.55 513.19 353.93 516.18 356.17 521.58 373.27 523.06 375.65 525.21 376.84 528.30 377.25 533.86 376.91 537.84 377.44 564.07 383.95 586.73 383.82 588.72 383.44 590.31 382.47 594.04 375.65 595.48 374.67 597.07 374.44 601.84 375.77 606.61 375.41 610.19 376.24 614.96 379.21 618.89 383.20 619.93 385.59 620.41 392.35 623.55 397.12 624.55 399.50 624.71 401.89 623.80 407.06 627.09 416.60 626.53 419.78 622.80 424.94 622.63 426.53 623.30 428.38 624.89 429.79 628.47 430.51 642.39 428.63 647.55 428.64 650.73 429.54 653.25 431.70 658.17 441.24 659.71 446.41 673.29 466.29 678.56 476.97 690.40 493.71 695.25 501.52 703.48 512.40 704.95 515.98 704.78 519.55 702.86 522.34 699.63 524.01 675.38 528.94 648.35 529.90 626.09 532.63 619.33 532.37 616.55 531.37 613.37 529.41 610.98 529.05 603.43 531.77 594.68 532.61 583.55 532.68 565.66 535.08 563.68 536.26 562.51 539.03 562.67 559.70 561.69 561.54 559.70 562.56Z","disc":"M872.55 567.70 797.02 568.01 793.04 567.36 791.04 565.27 790.34 561.69 789.91 540.62 790.70 535.06 791.85 533.83 793.44 533.38 805.37 534.27 808.94 534.08 811.73 533.00 812.25 531.88 811.73 531.11 797.81 528.89 780.72 523.25 779.13 523.48 776.35 525.74 774.36 526.66 768.80 527.42 763.63 526.49 759.34 523.13 751.70 524.56 748.52 524.61 735.80 520.94 734.17 519.95 732.86 518.36 732.35 514.39 733.06 512.00 737.34 505.64 737.88 503.65 735.20 498.09 734.56 486.16 730.94 480.20 726.26 478.10 719.90 476.99 715.13 477.11 701.22 479.29 698.04 479.11 692.87 477.57 686.51 474.37 684.54 472.65 683.56 470.26 683.66 467.08 685.04 463.90 687.94 460.72 691.28 458.15 700.42 453.33 706.78 451.39 714.34 450.03 715.40 449.19 715.36 447.60 712.24 437.27 709.68 420.57 709.63 405.07 710.50 395.93 716.60 364.92 720.18 356.17 728.89 340.27 734.51 332.72 744.75 321.19 754.48 312.34 763.23 305.89 769.19 302.38 779.53 297.51 801.79 289.27 814.11 285.52 817.69 285.07 832.00 285.03 840.75 284.29 847.50 285.16 853.86 286.79 871.75 292.74 885.66 298.82 892.02 302.24 905.54 311.50 916.67 320.30 920.82 324.37 929.01 334.31 933.11 340.67 940.24 354.58 945.77 367.30 951.15 387.18 953.13 400.30 953.60 412.22 952.70 423.35 950.60 436.87 947.41 450.39 945.35 456.75 931.72 482.58 933.19 487.75 933.25 492.92 937.14 502.46 936.79 506.04 933.09 511.60 930.19 514.48 927.01 515.12 921.44 514.57 920.14 515.18 919.90 516.77 922.36 523.53 922.43 527.50 921.60 529.49 919.15 532.67 917.09 534.66 915.48 535.47 913.09 535.63 892.02 532.10 883.28 526.76 880.89 523.06 879.70 522.47 855.43 530.29 854.94 531.08 855.22 531.88 857.44 532.93 867.78 533.15 871.75 533.83 873.74 535.00 875.12 537.04 875.96 540.22 876.44 547.78 876.41 562.88 875.27 566.06 872.55 567.70Z"};
+    var SIGN={raven:[124,278,73,26],books:[133,533,84,28],construct:[909,284.5,71,26],about:[481,527,76,31],disc:[796,539,75,26]};
     P.defs(
       '<radialGradient id="vig" cx=".5" cy=".5" r=".78"><stop offset=".62" stop-color="#0a0604" stop-opacity="0"/><stop offset="1" stop-color="#0a0604" stop-opacity=".5"/></radialGradient>'
     );
@@ -41,9 +42,9 @@ PF.init({
       pic(w,name,c,'base swap');
       if(HOV[name])pic(w,name+'-hover',HOV[name],'hov');
       /* gold outline: drawn ABOVE the hover patch but masked to the outside of the silhouette, so nothing can cover it and it never overlaps the art */
-      P.defs('<mask id="rm-'+name+'" maskUnits="userSpaceOnUse" x="-50" y="-50" width="1200" height="700"><rect x="-50" y="-50" width="1200" height="700" fill="#fff"/><path d="'+RING[name]+'" fill="#000" fill-rule="evenodd"/></mask>');
+      P.defs('<mask id="rm-'+name+'" maskUnits="userSpaceOnUse" x="-50" y="-50" width="1200" height="700"><rect x="-50" y="-50" width="1200" height="700" fill="#fff"/><path d="'+RINGH[name]+'" fill="#000" fill-rule="evenodd"/></mask>');
       var rg=grp(w,{class:'ring',mask:'url(#rm-'+name+')'});
-      ['rg1','rg2','rg3'].forEach(function(c){el('path',{d:RING[name],class:c,'pointer-events':'none'},rg)});
+      ['rg1','rg2','rg3'].forEach(function(c){el('path',{d:RINGH[name],class:c,'pointer-events':'none'},rg)});
       var s=SIGN[name],tg=grp(w,{class:'wtag'});
       var t=el('text',{x:s[0]+s[2]/2,y:s[1]+s[3]/2+.5},tg);t.textContent=label;if(label.length>11)t.setAttribute('style','font-size:10.5px');
       P.hot(key,g,{});   /* no box: the silhouette path above is the hit area; the sign + hover outline are the cue */

diff --git a/concepts/core/core.css b/concepts/core/core.css
@@ -552,3 +552,9 @@ body[data-theme=workshop] .pf-copy{padding:0 32px}
 .hot.cut .hov{transition:opacity .14s ease-out}
 .hot.cut .base.swap{transition:none}
 .hot.cut:hover .base.swap,.hot.cut:focus-visible .base.swap,.hot.cut.on .base.swap,.hot.cut.peek .base.swap{opacity:0;transition:opacity 0s linear .14s}
+
+/* v27b: hard swap between the two pictures (a cross-fade left the old pose showing through for a moment). The hover picture stays at a hair above 0 so the browser keeps it decoded and the first swap never blinks */
+.hot.cut .hov{opacity:.004;transition:none}
+.hot.cut .base.swap{transition:none}
+.hot.cut:hover .base.swap,.hot.cut:focus-visible .base.swap,.hot.cut.on .base.swap,.hot.cut.peek .base.swap{opacity:0;transition:none}
+.hot.cut:hover .hov,.hot.cut:focus-visible .hov,.hot.cut.on .hov,.hot.cut.peek .hov{opacity:1;transition:none}
